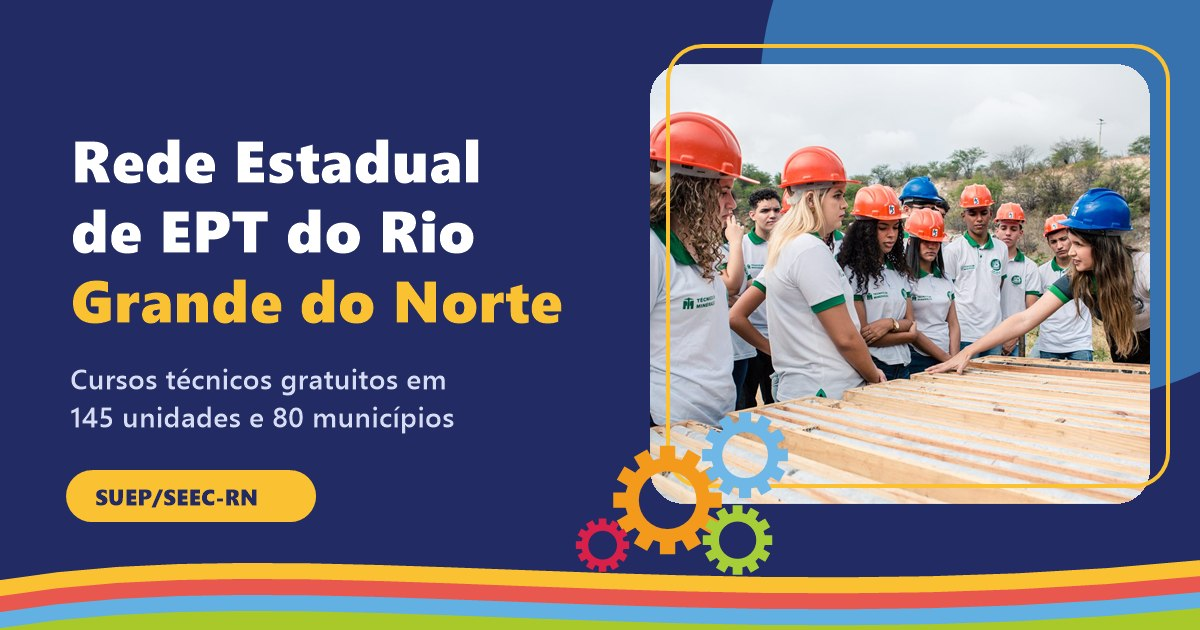
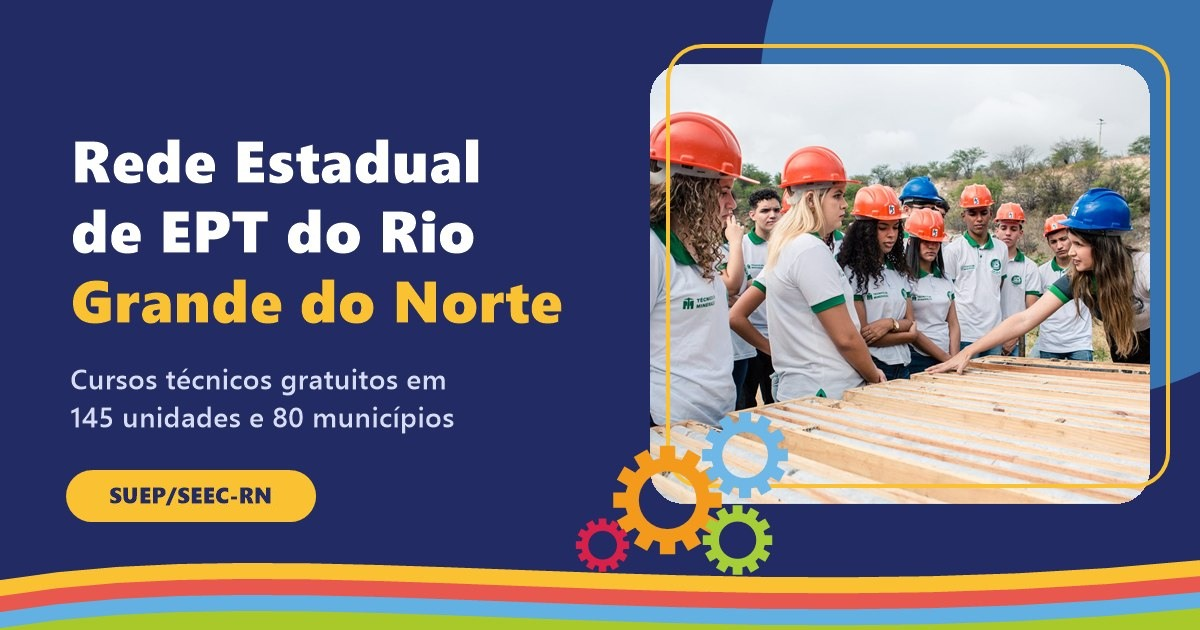
Imagem de compartilhamento com etiqueta centralizada

Changed region(s): [[0.0617, 0.754, 0.2467, 0.8143], [0.6475, 0.0603, 0.925, 0.0905], [0.5858, 0.0603, 0.6167, 0.0905]]

diff --git a/boas-praticas.html b/boas-praticas.html
@@ -15,7 +15,7 @@
   <meta property="og:title" content="Boas práticas em EPT · SUEP/SEEC-RN">
   <meta property="og:description" content="Relatos e experiências das escolas da rede estadual de EPT do RN: Olimpíada Sebrae de Empreendedorismo, Desafio Liga Jovem, Programa Aprendiz Potiguar, projetos da EE Walfredo Gurgel, estágio no CENEP, trajetórias de egressos e vozes da rede.">
   <meta property="og:url" content="https://suep-rn.github.io/Observatorio-da-EPT-Potiguar/boas-praticas.html">
-  <meta property="og:image" content="https://suep-rn.github.io/Observatorio-da-EPT-Potiguar/img/compartilhar.jpg">
+  <meta property="og:image" content="https://suep-rn.github.io/Observatorio-da-EPT-Potiguar/img/compartilhar.jpg?v=2">
   <meta property="og:image:width" content="1200">
   <meta property="og:image:height" content="630">
   <meta property="og:image:alt" content="Rede Estadual de EPT do Rio Grande do Norte: estudantes de Mineração com capacetes em aula de campo">

diff --git a/estagio-trabalho.html b/estagio-trabalho.html
@@ -15,7 +15,7 @@
   <meta property="og:title" content="Estágio e trabalho · SUEP/SEEC-RN">
   <meta property="og:description" content="Estágio, aprendizagem profissional e mundo do trabalho na Educação Profissional da rede estadual do RN: números, mapa, como funciona, histórias e informações para empresas.">
   <meta property="og:url" content="https://suep-rn.github.io/Observatorio-da-EPT-Potiguar/estagio-trabalho.html">
-  <meta property="og:image" content="https://suep-rn.github.io/Observatorio-da-EPT-Potiguar/img/compartilhar.jpg">
+  <meta property="og:image" content="https://suep-rn.github.io/Observatorio-da-EPT-Potiguar/img/compartilhar.jpg?v=2">
   <meta property="og:image:width" content="1200">
   <meta property="og:image:height" content="630">
   <meta property="og:image:alt" content="Rede Estadual de EPT do Rio Grande do Norte: estudantes de Mineração com capacetes em aula de campo">

diff --git a/programas.html b/programas.html
@@ -15,7 +15,7 @@
   <meta property="og:title" content="Programas da EPT · SUEP/SEEC-RN">
   <meta property="og:description" content="Pronatec, Bolsa-Formação e Mulheres Mil: o que são os programas federais de Educação Profissional, quem pode participar e como encontrar vagas no Rio Grande do Norte.">
   <meta property="og:url" content="https://suep-rn.github.io/Observatorio-da-EPT-Potiguar/programas.html">
-  <meta property="og:image" content="https://suep-rn.github.io/Observatorio-da-EPT-Potiguar/img/compartilhar.jpg">
+  <meta property="og:image" content="https://suep-rn.github.io/Observatorio-da-EPT-Potiguar/img/compartilhar.jpg?v=2">
   <meta property="og:image:width" content="1200">
   <meta property="og:image:height" content="630">
   <meta property="og:image:alt" content="Rede Estadual de EPT do Rio Grande do Norte: estudantes de Mineração com capacetes em aula de campo">

diff --git a/acompanhamento.html b/acompanhamento.html
@@ -15,7 +15,7 @@
   <meta property="og:title" content="Acompanhamento da EPT · SUEP/SEEC-RN">
   <meta property="og:description" content="Dados públicos do acompanhamento e monitoramento da EPT na rede estadual do RN: resultados das visitas técnicas de 2026 e o ciclo de monitoramento da SUEP.">
   <meta property="og:url" content="https://suep-rn.github.io/Observatorio-da-EPT-Potiguar/acompanhamento.html">
-  <meta property="og:image" content="https://suep-rn.github.io/Observatorio-da-EPT-Potiguar/img/compartilhar.jpg">
+  <meta property="og:image" content="https://suep-rn.github.io/Observatorio-da-EPT-Potiguar/img/compartilhar.jpg?v=2">
   <meta property="og:image:width" content="1200">
   <meta property="og:image:height" content="630">
   <meta property="og:image:alt" content="Rede Estadual de EPT do Rio Grande do Norte: estudantes de Mineração com capacetes em aula de campo">

diff --git a/documentos.html b/documentos.html
@@ -15,7 +15,7 @@
   <meta property="og:title" content="Documentos da EPT · SUEP/SEEC-RN">
   <meta property="og:description" content="Documentos orientadores, legislação, estruturas curriculares e PPCs da Educação Profissional e Tecnológica da rede estadual do RN, para download.">
   <meta property="og:url" content="https://suep-rn.github.io/Observatorio-da-EPT-Potiguar/documentos.html">
-  <meta property="og:image" content="https://suep-rn.github.io/Observatorio-da-EPT-Potiguar/img/compartilhar.jpg">
+  <meta property="og:image" content="https://suep-rn.github.io/Observatorio-da-EPT-Potiguar/img/compartilhar.jpg?v=2">
   <meta property="og:image:width" content="1200">
   <meta property="og:image:height" content="630">
   <meta property="og:image:alt" content="Rede Estadual de EPT do Rio Grande do Norte: estudantes de Mineração com capacetes em aula de campo">

diff --git a/ept.html b/ept.html
@@ -15,7 +15,7 @@
   <meta property="og:title" content="A EPT no RN · SUEP/SEEC-RN">
   <meta property="og:description" content="Como é a Educação Profissional e Tecnológica da rede estadual do Rio Grande do Norte: governança, IERNs, CEEPs, CENEP, escolas, cursos técnicos e história.">
   <meta property="og:url" content="https://suep-rn.github.io/Observatorio-da-EPT-Potiguar/ept.html">
-  <meta property="og:image" content="https://suep-rn.github.io/Observatorio-da-EPT-Potiguar/img/compartilhar.jpg">
+  <meta property="og:image" content="https://suep-rn.github.io/Observatorio-da-EPT-Potiguar/img/compartilhar.jpg?v=2">
   <meta property="og:image:width" content="1200">
   <meta property="og:image:height" content="630">
   <meta property="og:image:alt" content="Rede Estadual de EPT do Rio Grande do Norte: estudantes de Mineração com capacetes em aula de campo">

diff --git a/agenda.html b/agenda.html
@@ -15,7 +15,7 @@
   <meta property="og:title" content="Agenda formativa da EPT · SUEP/SEEC-RN">
   <meta property="og:description" content="O Programa de Formação Continuada em EPT da rede estadual do RN: as seis ações formativas do ano, o público de cada uma e o método da SUEP.">
   <meta property="og:url" content="https://suep-rn.github.io/Observatorio-da-EPT-Potiguar/agenda.html">
-  <meta property="og:image" content="https://suep-rn.github.io/Observatorio-da-EPT-Potiguar/img/compartilhar.jpg">
+  <meta property="og:image" content="https://suep-rn.github.io/Observatorio-da-EPT-Potiguar/img/compartilhar.jpg?v=2">
   <meta property="og:image:width" content="1200">
   <meta property="og:image:height" content="630">
   <meta property="og:image:alt" content="Rede Estadual de EPT do Rio Grande do Norte: estudantes de Mineração com capacetes em aula de campo">

diff --git a/como-entrar.html b/como-entrar.html
@@ -15,7 +15,7 @@
   <meta property="og:title" content="Como entrar · SUEP/SEEC-RN">
   <meta property="og:description" content="Como estudar em um curso técnico da rede estadual do RN: formas de oferta, quem pode se inscrever, matrícula, quem procurar e perguntas frequentes.">
   <meta property="og:url" content="https://suep-rn.github.io/Observatorio-da-EPT-Potiguar/como-entrar.html">
-  <meta property="og:image" content="https://suep-rn.github.io/Observatorio-da-EPT-Potiguar/img/compartilhar.jpg">
+  <meta property="og:image" content="https://suep-rn.github.io/Observatorio-da-EPT-Potiguar/img/compartilhar.jpg?v=2">
   <meta property="og:image:width" content="1200">
   <meta property="og:image:height" content="630">
   <meta property="og:image:alt" content="Rede Estadual de EPT do Rio Grande do Norte: estudantes de Mineração com capacetes em aula de campo">

diff --git a/index.html b/index.html
@@ -15,7 +15,7 @@
   <meta property="og:title" content="SUEP · Educação Profissional e Tecnológica do RN">
   <meta property="og:description" content="A Rede Estadual de Educação Profissional e Tecnológica do Rio Grande do Norte: escolas, CEEPs, IERNs e cursos técnicos (SUEP/SEEC-RN).">
   <meta property="og:url" content="https://suep-rn.github.io/Observatorio-da-EPT-Potiguar/">
-  <meta property="og:image" content="https://suep-rn.github.io/Observatorio-da-EPT-Potiguar/img/compartilhar.jpg">
+  <meta property="og:image" content="https://suep-rn.github.io/Observatorio-da-EPT-Potiguar/img/compartilhar.jpg?v=2">
   <meta property="og:image:width" content="1200">
   <meta property="og:image:height" content="630">
   <meta property="og:image:alt" content="Rede Estadual de EPT do Rio Grande do Norte: estudantes de Mineração com capacetes em aula de campo">

diff --git a/sobre.html b/sobre.html
@@ -15,7 +15,7 @@
   <meta property="og:title" content="A SUEP · SUEP/SEEC-RN">
   <meta property="og:description" content="Quem é a SUEP, Subcoordenadoria de Educação Profissional e Tecnológica da SEEC-RN: o que faz, como trabalha, suas ações e sua equipe.">
   <meta property="og:url" content="https://suep-rn.github.io/Observatorio-da-EPT-Potiguar/sobre.html">
-  <meta property="og:image" content="https://suep-rn.github.io/Observatorio-da-EPT-Potiguar/img/compartilhar.jpg">
+  <meta property="og:image" content="https://suep-rn.github.io/Observatorio-da-EPT-Potiguar/img/compartilhar.jpg?v=2">
   <meta property="og:image:width" content="1200">
   <meta property="og:image:height" content="630">
   <meta property="og:image:alt" content="Rede Estadual de EPT do Rio Grande do Norte: estudantes de Mineração com capacetes em aula de campo">

diff --git a/onde-estudar.html b/onde-estudar.html
@@ -15,7 +15,7 @@
   <meta property="og:title" content="Encontre seu curso técnico · SUEP/SEEC-RN">
   <meta property="og:description" content="Busque por município ou curso as escolas, CEEPs e IERNs da rede estadual do RN que ofertam cursos técnicos.">
   <meta property="og:url" content="https://suep-rn.github.io/Observatorio-da-EPT-Potiguar/onde-estudar.html">
-  <meta property="og:image" content="https://suep-rn.github.io/Observatorio-da-EPT-Potiguar/img/compartilhar.jpg">
+  <meta property="og:image" content="https://suep-rn.github.io/Observatorio-da-EPT-Potiguar/img/compartilhar.jpg?v=2">
   <meta property="og:image:width" content="1200">
   <meta property="og:image:height" content="630">
   <meta property="og:image:alt" content="Rede Estadual de EPT do Rio Grande do Norte: estudantes de Mineração com capacetes em aula de campo">

diff --git a/cursos.html b/cursos.html
@@ -15,7 +15,7 @@
   <meta property="og:title" content="Cursos técnicos · SUEP/SEEC-RN">
   <meta property="og:description" content="Os 18 cursos técnicos da rede estadual do RN: o que cada técnico faz, onde pode trabalhar e onde o curso é ofertado.">
   <meta property="og:url" content="https://suep-rn.github.io/Observatorio-da-EPT-Potiguar/cursos.html">
-  <meta property="og:image" content="https://suep-rn.github.io/Observatorio-da-EPT-Potiguar/img/compartilhar.jpg">
+  <meta property="og:image" content="https://suep-rn.github.io/Observatorio-da-EPT-Potiguar/img/compartilhar.jpg?v=2">
   <meta property="og:image:width" content="1200">
   <meta property="og:image:height" content="630">
   <meta property="og:image:alt" content="Rede Estadual de EPT do Rio Grande do Norte: estudantes de Mineração com capacetes em aula de campo">
